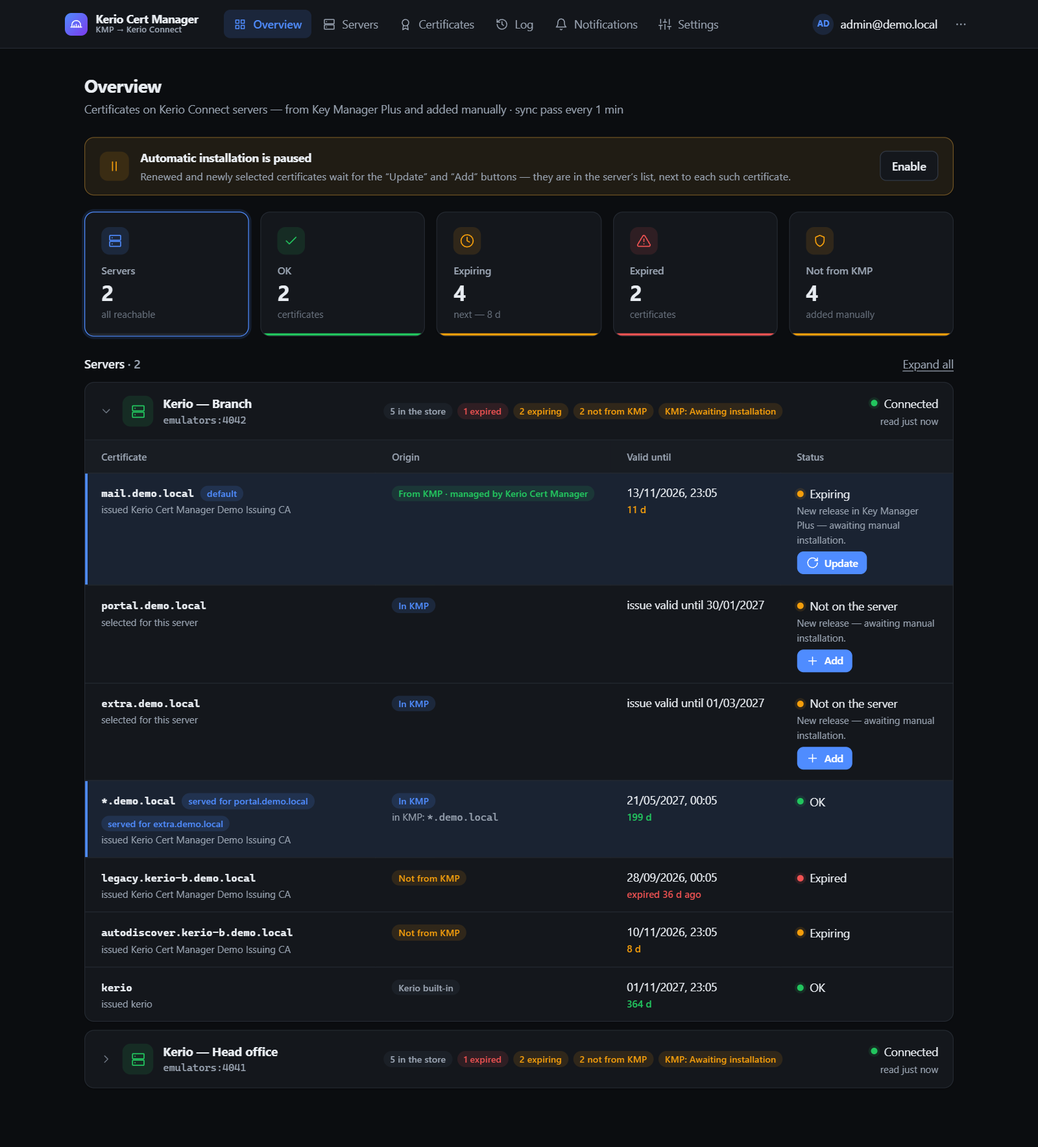
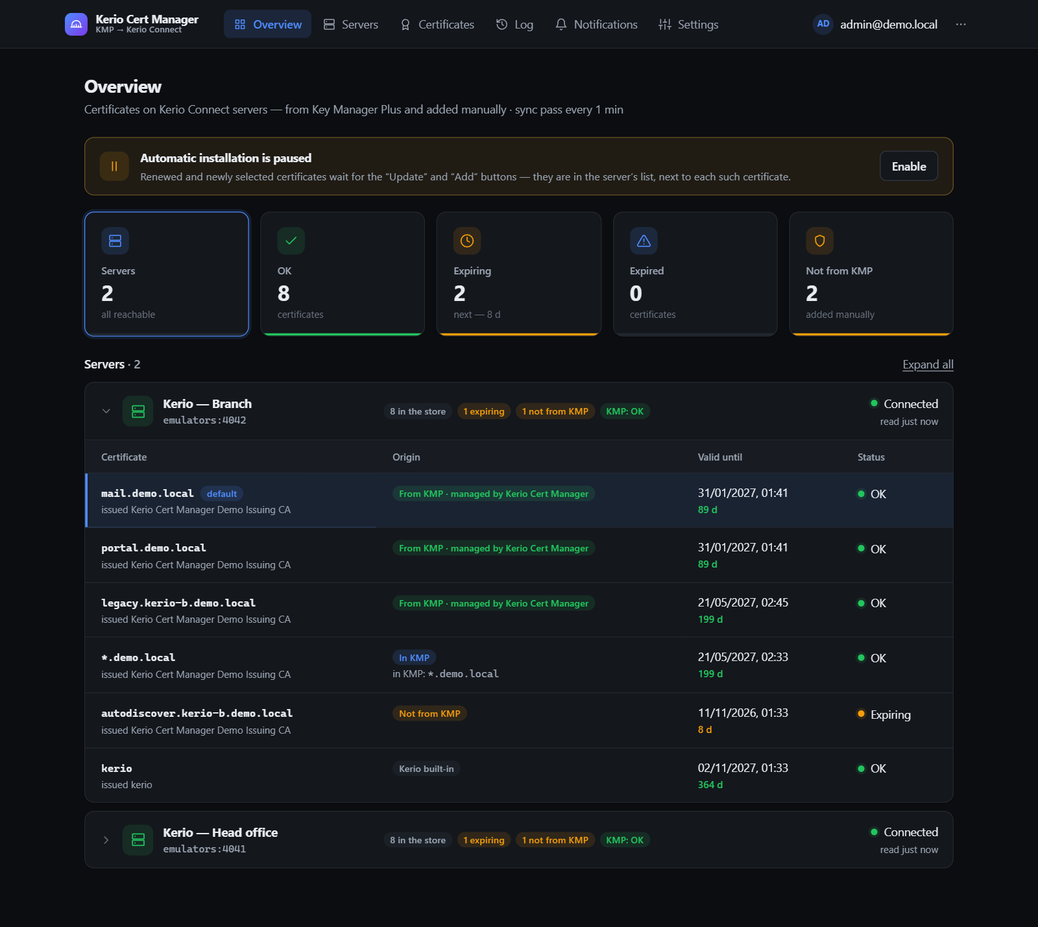
Выпуск 1.0.7: одна строка на имя — самая новая версия
- Старые версии имени, которые Kerio уже не подаёт, в «Обзоре» не показываются и не считаются в «Истекли»,
  «Не из KMP» и счётчиках сервера; если Kerio всё ещё подаёт старую — видны обе. В API — признак superseded.
- Сертификат, нажатый «Обновить» и стоящий в очереди, — «в очереди на установку», а не «ждёт ручной установки».
- «Подаётся для …» — только для другого имени; синим выделен только сертификат по умолчанию.

diff --git a/KerioCertManager.Web/src/pages/Overview.tsx b/KerioCertManager.Web/src/pages/Overview.tsx
@@ -24,7 +24,7 @@ type Row = StoreCert & { tlsOnly?: boolean };
 
 const matches = (r: Row, filter: Filter) =>
   filter === 'all' ? true
-    : filter === 'foreign' ? r.origin === 'foreign'
+    : filter === 'foreign' ? counted(r) && r.origin === 'foreign'
       : counted(r) && r.state === filter;
 
 /** Свёрнутые и развёрнутые карточки браузер помнит до конца сеанса — по умолчанию все свёрнуты. */
@@ -152,9 +152,9 @@ export function OverviewPage() {
   );
 }
 
-/** Сертификаты сервера для обзора; хранилище ещё не читали — хотя бы то, что подаётся по TLS. */
+/** Сертификаты сервера для обзора — одна строка на имя, без заменённых версий; хранилище ещё не читали — то, что подаётся по TLS. */
 function rows(s: KerioServer, warning: number): Row[] {
-  if (s.store_checked_at) return s.store;
+  if (s.store_checked_at) return s.store.filter(z => !z.superseded);
   if (!s.served?.sha256) return [];
   const bare = (x: string | null | undefined) => (x ?? '').replace(/[^0-9a-f]/gi, '').replace(/^0+/, '').toLowerCase();
   const managed = Boolean(s.source && bare(s.source.serial_number) === bare(s.served.serial));
@@ -176,6 +176,7 @@ function rows(s: KerioServer, warning: number): Row[] {
     origin: managed ? 'managed' : 'foreign',
     kmp_common_name: null,
     update_from: null,
+    superseded: false,
     state: days === null ? 'unknown' : days < 0 ? 'expired' : days <= warning ? 'expiring' : 'ok',
     tlsOnly: true,
   }];
@@ -215,7 +216,7 @@ function ServerBlock({ server: s, rows: list, all, warning, filtered, open, onTo
   const counting = all.filter(counted);
   const expiring = counting.filter(r => r.state === 'expiring').length;
   const expired = counting.filter(r => r.state === 'expired').length;
-  const foreign = all.filter(r => r.origin === 'foreign').length;
+  const foreign = counting.filter(r => r.origin === 'foreign').length;
   const worst = managed.reduce<Managed | null>((w, m) => (!w || STATUS[m.status].rank < STATUS[w.status].rank ? m : w), null);
   const bodyId = 'ov-body-' + s.id;
 
@@ -390,7 +391,7 @@ function ServedBadges({ r, names }: { r: Row; names: string[] }) {
   return (
     <>
       {r.served && <span className="badge accent" title={t('Сертификат по умолчанию: Kerio подаёт его без SNI и для имён без своего сертификата')}>{t('по умолчанию')}</span>}
-      {names.filter(n => !r.served || n.toLowerCase() !== r.subject.toLowerCase()).map(n => (
+      {names.filter(n => n.toLowerCase() !== r.subject.toLowerCase()).map(n => (
         <span key={n} className="badge accent" title={t('Его Kerio подаёт клиентам, которые обращаются по имени {0}', n)}>{t('подаётся для {0}', n)}</span>
       ))}
     </>
@@ -403,7 +404,7 @@ function CertRow({ r, warning, names, note, action }: { r: Row; warning: number;
   const extra = r.dns_names.filter(n => n.toLowerCase() !== r.subject.toLowerCase());
 
   return (
-    <tr className={r.served || names.length ? 'served' : ''}>
+    <tr className={r.served ? 'served' : ''}>
       <td>
         <span className="cert-name">
           <b className="mono">{r.subject || '—'}</b>
@@ -437,7 +438,7 @@ function CertItem({ r, warning, names, note, action }: { r: Row; warning: number
   const state = CERT_STATE[r.state];
 
   return (
-    <li className={'ov-cert' + (r.served || names.length ? ' served' : '')}>
+    <li className={'ov-cert' + (r.served ? ' served' : '')}>
       <div className="ov-cert-top">
         <b className="mono">{r.subject || '—'}</b>
         <Status kind={state.dot}>{state.label}</Status>

diff --git a/KerioCertManager.Web/src/lib/kerio.ts b/KerioCertManager.Web/src/lib/kerio.ts
@@ -140,8 +140,8 @@ export const CERT_STATE: Record<CertState, { dot: DotKind; label: string }> = {
   unknown: { dot: '', label: t('Срок неизвестен') },
 };
 
-/** Считается в сводке обзора: встроенный Kerio и запросы — только если подаются. */
-export const counted = (c: StoreCert) => c.served || (c.origin !== 'builtin' && c.origin !== 'request');
+/** Считается в сводке обзора: заменённые новой версией — нет; встроенный Kerio и запросы — только если подаются. */
+export const counted = (c: StoreCert) => !c.superseded && (c.served || (c.origin !== 'builtin' && c.origin !== 'request'));
 
 export const EVENT: Record<string, string> = {
   expiring: t('Скоро истекает'),

diff --git a/KerioCertManager.Web/src/lib/types.ts b/KerioCertManager.Web/src/lib/types.ts
@@ -221,6 +221,8 @@ export interface StoreCert {
   kmp_common_name: string | null;
   state: CertState;
   update_from: string | null;
+  /** Рядом лежит версия этого имени новее, а эту Kerio не подаёт: в обзоре не показывается. */
+  superseded: boolean;
 }
 
 /** Отправленное оповещение. */

diff --git a/KerioCertManager.Modules.Kerio/Api/ServerView.cs b/KerioCertManager.Modules.Kerio/Api/ServerView.cs
@@ -51,8 +51,13 @@ internal static class ServerView
         ArgumentNullException.ThrowIfNull(с);
         ArgumentNullException.ThrowIfNull(kmp);
 
+        var очередь = Очередь(с, requested ?? [], installing);
+
+        bool ВОчереди(string? имя) => имя is not null
+            && (очередь.Contains(имя, StringComparer.OrdinalIgnoreCase) || string.Equals(имя, installing, StringComparison.OrdinalIgnoreCase));
+
         var выпуск = с.CommonName is { } имя && kmp.TryGetValue(имя, out var найден) ? найден : null;
-        var (статус, текст) = Status(с, выпуск, warningDays, now, dryRun, paused);
+        var (статус, текст) = Status(с, выпуск, warningDays, now, dryRun, paused, ВОчереди(с.CommonName));
 
         int? дней = с.ServedNotAfter is { } до ? (int)Math.Floor((до - now).TotalDays) : null;
 
@@ -90,13 +95,13 @@ internal static class ServerView
             с.LastDeployAt,
             с.LastDeployError,
             с.NextAttemptAt,
-            Очередь(с, requested ?? [], installing),
+            очередь,
             installing,
             с.CreatedAt,
             с.UpdatedAt,
             bySerial is null ? [] : Хранилище(с, bySerial, kmp, warningDays, now),
             с.StoreCheckedAt,
-            [.. с.Extras.Select(д => Доп(с, д, kmp, warningDays, now, dryRun, paused))],
+            [.. с.Extras.Select(д => Доп(с, д, kmp, warningDays, now, dryRun, paused, ВОчереди(д.CommonName)))],
             с.ServedByName);
     }
 
@@ -122,7 +127,7 @@ internal static class ServerView
     /// <summary>Сертификат своего имени: что в KMP, лежит ли в хранилище, подаётся ли по имени.</summary>
     internal static ExtraOut Доп(
         KerioServer с, ExtraCertificate д, IReadOnlyDictionary<string, SourceCertificate> kmp, int warningDays, DateTimeOffset now, bool dryRun,
-        bool paused = false)
+        bool paused = false, bool queued = false)
     {
         var выпуск = kmp.TryGetValue(д.CommonName, out var найден) ? найден : null;
         var лежит = выпуск is null
@@ -149,7 +154,7 @@ internal static class ServerView
             : (ServerStatuses.UpdatePending, dryRun
                 ? "Новый выпуск — пробный режим: проверен, но в Kerio не ставится."
                 // ⚠ Как в ExtraPlanner: первая установка не ждёт выключателя сервера, общая пауза держит всё.
-                : !paused && (с.AutoDeploy || (д.InstalledSerial is null && !с.Store.Any(з => ExtraPlanner.Того(з, д.CommonName))))
+                : queued || (!paused && (с.AutoDeploy || (д.InstalledSerial is null && !с.Store.Any(з => ExtraPlanner.Того(з, д.CommonName)))))
                     ? "Новый выпуск — в очереди на установку." : "Новый выпуск — ждёт ручной установки.");
 
         return new ExtraOut(
@@ -189,6 +194,13 @@ internal static class ServerView
     {
         var ведомые = с.ManagedNames().ToHashSet(StringComparer.OrdinalIgnoreCase);
         var лежат = с.Store.Where(з => з.Serial is not null).Select(з => Fingerprints.Serial(з.Serial!)).ToHashSet(StringComparer.Ordinal);
+        var подаются = с.ServedByName.Values.Append(с.ServedSha256).OfType<string>().ToHashSet(StringComparer.Ordinal);
+
+        // Самый поздний срок каждого имени: версия раньше него, которую Kerio не подаёт, заменена и в сводку не идёт.
+        var новейший = с.Store
+            .Where(з => з.NotAfter is not null)
+            .GroupBy(з => з.Subject, StringComparer.OrdinalIgnoreCase)
+            .ToDictionary(г => г.Key, г => г.Max(з => з.NotAfter!.Value), StringComparer.OrdinalIgnoreCase);
 
         return [.. с.Store
             .Select(з =>
@@ -212,8 +224,14 @@ internal static class ServerView
                     : конец - now <= TimeSpan.FromDays(warningDays) ? "expiring"
                     : "ok";
 
+                var заменён = (з.Sha256 is null || !подаются.Contains(з.Sha256))
+                    && з.NotAfter is { } мой
+                    && новейший.TryGetValue(з.Subject, out var свежее)
+                    && свежее > мой;
+
                 // ⚠ «Обновить» — только у выбранного для сервера имени: в KMP есть выпуск новее, и его ещё нет в хранилище.
-                var обновить = откуда is not ("builtin" or "request")
+                var обновить = !заменён
+                    && откуда is not ("builtin" or "request")
                     && ведомые.Contains(з.Subject)
                     && текущие.TryGetValue(з.Subject, out var свежий)
                     && !лежат.Contains(Fingerprints.Serial(свежий.SerialNumber))
@@ -238,16 +256,19 @@ internal static class ServerView
                     откуда,
                     выпуск?.CommonName,
                     срок,
-                    обновить);
+                    обновить,
+                    заменён);
             })
             .OrderByDescending(з => з.Served)
+            .ThenBy(з => з.Superseded)
             .ThenBy(з => з.Origin switch { "managed" => 0, "kmp" => 1, "foreign" => 2, "builtin" => 3, _ => 4 })
             .ThenBy(з => з.NotAfter ?? DateTimeOffset.MaxValue)];
     }
 
     /// <summary>Самое важное о сервере одним словом и фразой.</summary>
     internal static (string Code, string Text) Status(
-        KerioServer с, SourceCertificate? выпуск, int warningDays, DateTimeOffset now, bool dryRun = false, bool paused = false)
+        KerioServer с, SourceCertificate? выпуск, int warningDays, DateTimeOffset now, bool dryRun = false, bool paused = false,
+        bool queued = false)
     {
         if (!с.Enabled)
         {
@@ -280,7 +301,7 @@ internal static class ServerView
         {
             return (ServerStatuses.UpdatePending, dryRun
                 ? "В Key Manager Plus новый выпуск — пробный режим: проверен, но в Kerio не ставится."
-                : !paused && (с.AutoDeploy || с.InstalledSerial is null)
+                : queued || (!paused && (с.AutoDeploy || с.InstalledSerial is null))
                     ? "В Key Manager Plus новый выпуск — в очереди на установку."
                     : "В Key Manager Plus новый выпуск — ждёт ручной установки.");
         }

diff --git a/KerioCertManager.Modules.Kerio.Tests/OverviewAlertsTests.cs b/KerioCertManager.Modules.Kerio.Tests/OverviewAlertsTests.cs
@@ -180,6 +180,44 @@ public sealed class OverviewAlertsTests
         ServerView.Хранилище(сервер, kmp, 21, Сейчас).ShouldAllBe(з => з.UpdateFrom == null, "новый уже в хранилище");
     }
 
+    /// <summary>⚠ Версия имени раньше самой поздней, которую Kerio не подаёт, — заменена: в сводку не идёт, кнопки нет, в конце списка.</summary>
+    [Fact]
+    public void Старая_версия_рядом_с_новой_заменена()
+    {
+        var сервер = Сервер(installed: "aa", served: "aa");
+        сервер.ServedSha256 = "SHA-AA";
+        сервер.ServedByName = new(StringComparer.Ordinal) { ["legacy.example.com"] = "SHA-OLD2" };
+        сервер.Extras = [new ExtraCertificate { CommonName = "legacy.example.com", AddedAt = Сейчас }];
+        сервер.Store =
+        [
+            Лежит("server1", "aa", "SHA-AA", 60),
+            Лежит("server2", "a0", "SHA-OLD", -117),
+            Лежит("server3", "dd", "SHA-OLD2", -50, subject: "legacy.example.com"),
+            Лежит("server4", "ee", "SHA-NEW", 300, subject: "legacy.example.com"),
+            Лежит("server5", "ff", "SHA-ALONE", -10, subject: "alone.example.com"),
+        ];
+        IReadOnlyList<SourceCertificate> kmp =
+            [Выпуск("aa", 60), new("legacy.example.com", "f1", DateOnly.FromDateTime(Сейчас.AddDays(400).UtcDateTime), Сейчас, Сейчас)];
+
+        var хранилище = ServerView.Хранилище(сервер, kmp, 21, Сейчас);
+        var по = хранилище.ToDictionary(з => з.Id);
+
+        по["server2"].Superseded.ShouldBeTrue("рядом новее, и Kerio её не подаёт");
+        по["server2"].State.ShouldBe("expired", "срок показан честно, но в сводку не идёт");
+        по["server1"].Superseded.ShouldBeFalse();
+        по["server3"].Superseded.ShouldBeFalse("Kerio подаёт её для имени — клиенты её видят");
+        по["server3"].UpdateFrom.ShouldBe("legacy.example.com");
+        по["server4"].Superseded.ShouldBeFalse();
+        по["server5"].Superseded.ShouldBeFalse("истёк, но новее нет");
+        хранилище[^1].Id.ShouldBe("server2", "заменённые — в конце");
+
+        сервер.ServedByName = new(StringComparer.Ordinal);
+        по = ServerView.Хранилище(сервер, kmp, 21, Сейчас).ToDictionary(з => з.Id);
+        по["server3"].Superseded.ShouldBeTrue("больше не подаётся");
+        по["server3"].UpdateFrom.ShouldBeNull("у заменённой кнопки нет");
+        по["server4"].UpdateFrom.ShouldBe("legacy.example.com", "кнопка — у новейшей версии");
+    }
+
     /// <summary>⚠ Тот же идентификатор, имя и дата — ещё не тот же сертификат: текст читается каждый раз.</summary>
     [Fact]
     public async Task Текст_сертификата_читается_каждый_раз()

diff --git a/KerioCertManager.Modules.Kerio.Tests/ExtrasTests.cs b/KerioCertManager.Modules.Kerio.Tests/ExtrasTests.cs
@@ -173,6 +173,8 @@ public sealed class ExtrasTests
         продление.AutoDeploy = false;
         ServerView.Доп(продление, Доп("aa", "SHA-aa"), kmp, 21, Сейчас, dryRun: false).StatusText
             .ShouldContain("ждёт ручной установки", customMessage: "продление ждёт кнопки");
+        ServerView.Доп(продление, Доп("aa", "SHA-aa"), kmp, 21, Сейчас, dryRun: false, queued: true).StatusText
+            .ShouldContain("в очереди на установку", customMessage: "кнопку нажали — в очереди");
     }
 
     [Fact]

diff --git a/KerioCertManager.Modules.Kerio/Api/Dto.cs b/KerioCertManager.Modules.Kerio/Api/Dto.cs
@@ -101,7 +101,8 @@ internal sealed record StoreCertOut(
     [property: JsonPropertyName("origin")] string Origin,
     [property: JsonPropertyName("kmp_common_name")] string? KmpCommonName,
     [property: JsonPropertyName("state")] string State,
-    [property: JsonPropertyName("update_from")] string? UpdateFrom);
+    [property: JsonPropertyName("update_from")] string? UpdateFrom,
+    [property: JsonPropertyName("superseded")] bool Superseded);
 
 /// <summary>Отправленное оповещение.</summary>
 internal sealed record NotificationOut(

diff --git a/docs/USER-GUIDE.ru.md b/docs/USER-GUIDE.ru.md
@@ -216,10 +216,13 @@ Connect: замечает продление, ставит новый серти
 KMP**. Нажмите плитку — фильтр, нажмите ещё раз — снять.
 
 Карточка сервера показывает число сертификатов в хранилище, проблемы и состояние привязанных сертификатов KMP.
-Развёрнутая — это один список сертификатов на сервере: сверху и выделен сертификат **по умолчанию**, затем
-выбранные, которых ещё нет в Kerio, затем остальное хранилище. В строке — *подаётся для имени*, происхождение
-(**Из KMP · ведёт Kerio Cert Manager**, **В KMP**, **Не из KMP**, **Встроенный Kerio**), срок и состояние; если
-выбранный сертификат не в порядке, причина — прямо под состоянием (*Ждёт установки*, *Не установлен: …*).
+Развёрнутая — это один список сертификатов на сервере, по строке на имя: сверху и выделен сертификат **по
+умолчанию**, затем выбранные, которых ещё нет в Kerio, затем остальное хранилище. В строке — самая новая версия имени;
+старые версии, которые Kerio уже не подаёт, не показываются и в плитки не идут (если Kerio всё ещё подаёт старую,
+видны обе строки — у новой написано перезапустить службу). В строке — происхождение (**Из KMP · ведёт Kerio Cert
+Manager**, **В KMP**, **Не из KMP**, **Встроенный Kerio**), срок и состояние, а *подаётся для имени* — когда Kerio
+подаёт его для другого имени (например, сертификат на `*.домен`); если выбранный сертификат не в порядке, причина —
+прямо под состоянием (*Ждёт установки*, *Не установлен: …*).
 
 Кнопки есть только у сертификатов, выбранных для этого сервера. Есть в Key Manager Plus выпуск новее, которого ещё
 нет в Kerio, — под состоянием кнопка **«Обновить»**. Выбранного сертификата нет в хранилище — строка *Нет на сервере*

diff --git a/docs/USER-GUIDE.md b/docs/USER-GUIDE.md
@@ -221,11 +221,14 @@ The tiles at the top are both the summary and the only filter: **Servers**, **OK
 **Not from KMP**. Click a tile to filter, click it again to clear.
 
 Each server card shows the number of certificates in the store, problems, and the state of the linked KMP
-certificates. Expanded, it is one list of the certificates on the server: the **default** one is at the top and
-highlighted, then the selected certificates that are not in Kerio yet, then the rest of the store. Each line shows
-*served for name*, the origin (**From KMP · managed by Kerio Cert Manager**, **In KMP**, **Not from KMP**,
-**Kerio built-in**), valid until and state; when a selected certificate is not OK, the reason is right under its
-state (*Awaiting installation*, *Not installed: …*).
+certificates. Expanded, it is one list of the certificates on the server, one line per name: the **default** one
+is at the top and highlighted, then the selected certificates that are not in Kerio yet, then the rest of the store.
+A line shows the newest version of its name; older versions that Kerio no longer presents are not listed and are not
+counted in the tiles (if Kerio still presents an older one, both lines stay — the newer one says to restart the
+service). Each line shows the origin (**From KMP · managed by Kerio Cert Manager**, **In KMP**, **Not from KMP**,
+**Kerio built-in**), valid until and state, and *served for name* when Kerio presents it for another name (a wildcard,
+say); when a selected certificate is not OK, the reason is right under its state (*Awaiting installation*,
+*Not installed: …*).
 
 Buttons appear only for certificates selected for this server. When Key Manager Plus has a newer release that is not
 in Kerio yet, the status has the **Update** button. A selected certificate that is missing from the store is a

diff --git a/CHANGELOG.md b/CHANGELOG.md
@@ -1,5 +1,22 @@
 # Журнал изменений
 
+## [1.0.7] — 2026-11-02
+
+### Исправлено
+
+- **«Истекли» считали старые версии.** Когда для имени в хранилище Kerio уже стоит новый сертификат, прежние
+  истёкшие версии этого имени попадали в плитки «Истекли» / «Не из KMP» и в счётчики на карточке сервера. Теперь
+  в «Обзоре» одна строка на имя — самая новая версия; старые, которые Kerio уже не подаёт, не показываются и не
+  считаются. Если Kerio всё ещё подаёт старую версию, видны обе строки — это настоящая проблема. В API у сертификата
+  хранилища — признак `superseded`.
+- У сертификата, который нажали «Обновить» и он в очереди, состояние было «ждёт ручной установки» — теперь
+  «в очереди на установку».
+
+### Изменено
+
+- Метка «подаётся для …» — только когда Kerio подаёт сертификат для другого имени (например, `*.домен`); для своего
+  имени она ничего не добавляла. Синим выделен только сертификат по умолчанию.
+
 ## [1.0.6] — 2026-11-02
 
 ### Изменено

diff --git a/README.ru.md b/README.ru.md
@@ -173,7 +173,7 @@ unzip kerio-cert-manager-cli-v*.zip && cd kerio-cert-manager
 основного архива релиза):
 
 ```bash
-docker pull danreero/kerio_cert_manager:1.0.6
+docker pull danreero/kerio_cert_manager:1.0.7
 ```
 
 **3. Секреты.** Скрипт создаёт мастер-ключ шифрования и два пароля базы в `secrets/`. Существующие файлы не

diff --git a/deploy/dockerhub/README.md b/deploy/dockerhub/README.md
@@ -14,7 +14,7 @@ verified over TLS on every port, rolled back if it does not come up, and the adm
 |---|---|
 | `latest` | The newest release |
 | `1.0` | The newest 1.0.x |
-| `1.0.6` | A fixed version — recommended for servers where updates are planned |
+| `1.0.7` | A fixed version — recommended for servers where updates are planned |
 
 ## Run with Portainer
 
